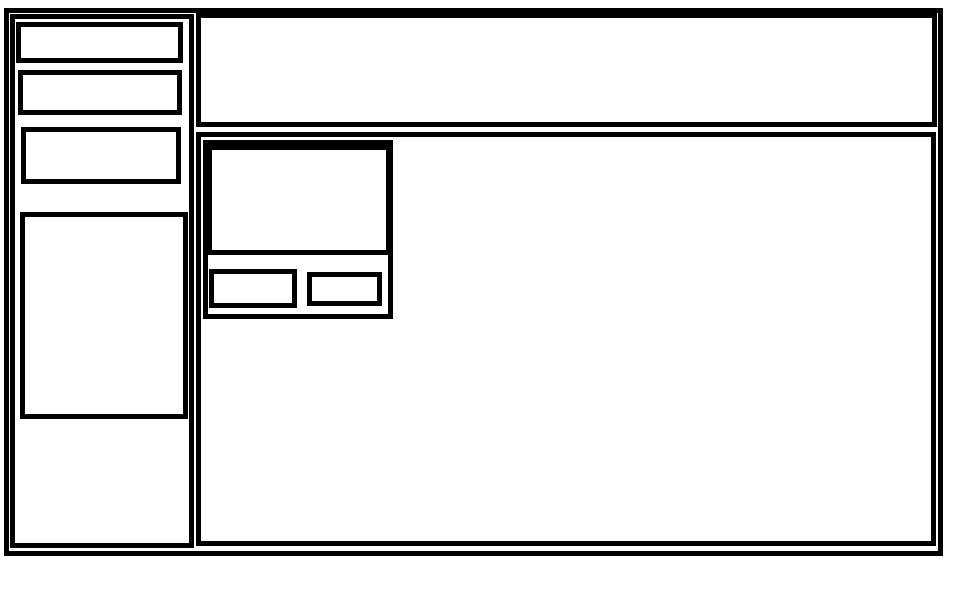
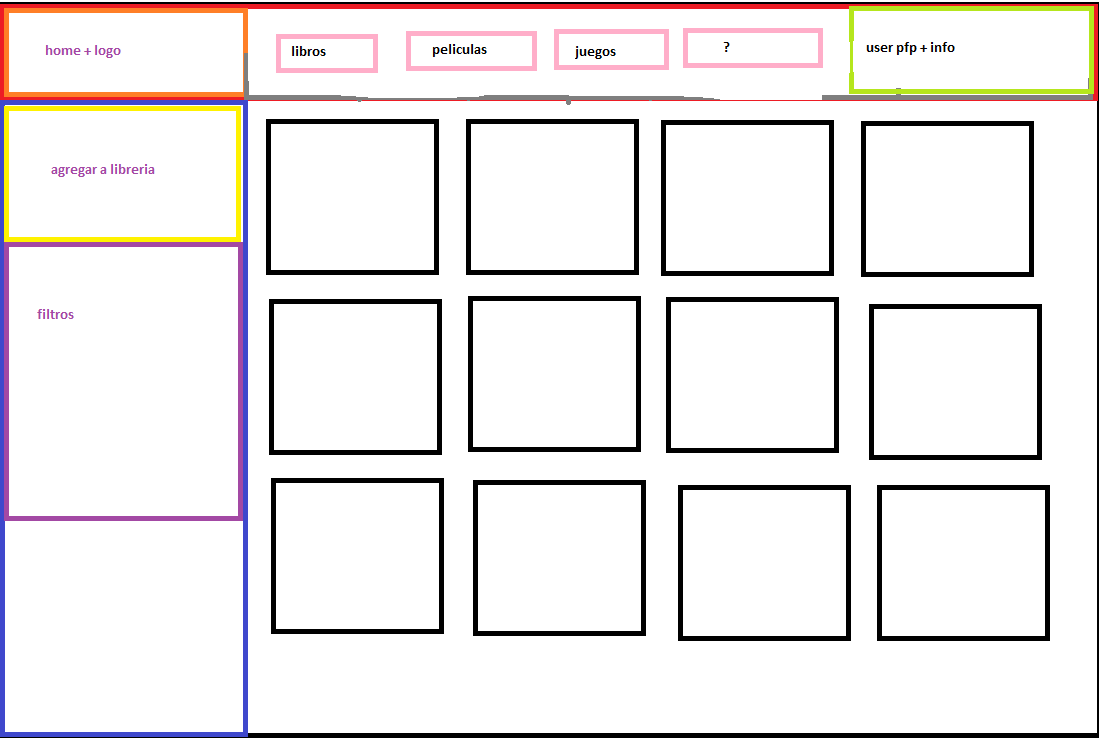
Add basic html and css selectors

Changed region(s): [[0.0, 0.0, 1.0, 1.0]]

diff --git a/index.html b/index.html
@@ -7,60 +7,74 @@
     <link rel="library.css" href="library.css">
 </head>
 <body>
-    <div class="header"></div>
-    <div class="sidebar"> 
-        <div class="navigation">
-            <button></button>
-            <button></button>
+  <div class="header">
+    <div class="homeLogo">
+      <img src="" alt="">
+    </div>
+    <div class="libNav">
+      <button class="books"></button>
+      <button class="movies"></button>
+      <button class="games"></button>
+    </div>
+    <div class="userSection">
+      <div></div>
+      <div></div>
+    </div>
+  </div>
+  <div class="sidebar">
+    <div class="homeIcon">
+      <img id="homeLogo" src="" alt="">
+    </div> 
+    <div class="form">
+      <form class="addBookForm">
+        <fieldset>
+              <legend>Add a book!</legend>
+              <p>
+                <input type="text" 
+                        name="title" 
+                        id="title" 
+                        value="The leyend of Robin Hood" 
+                        required />
+                <label for="title">Title*</label>
+              </p>
+              <p>
+                <input type="text" 
+                        name="author" 
+                        id="author" 
+                        value="Sir Walter Scott"
+                        required />
+                <label for="author">Author*</label>
+              </p>
+              <p>
+                <input type="numbwe" 
+                        name="pages" 
+                        id="pages" 
+                        value="186" 
+                        required />
+                <label for="pages">Number of pages*</label>
+              </p>
+              <p>
+                <input type="checkbox" 
+                        name="read" 
+                        id="read" />
+                <label for="read">Read</label>
+              </p>
+              <p>
+                  <input type="file" id="cover" name="cover">
+                  <label for="cover">Upload cover art:</label>
+              </p>
+            </fieldset>
+          </form>
         </div>
         <div class="filters">
-            <form class="filterBy"></form>
+            <form class="filterBy">
+      
+            </form>
         </div>
-        <div class="form">
-            <form class="addBookForm">
-                <fieldset>
-                  <legend>Add a book!</legend>
-                  <p>
-                    <input type="text" 
-                           name="title" 
-                           id="title" 
-                           value="The leyend of Robin Hood" 
-                           required />
-                    <label for="title">Title*</label>
-                  </p>
-                  <p>
-                    <input type="text" 
-                           name="author" 
-                           id="author" 
-                           value="Sir Walter Scott"
-                           required />
-                    <label for="author">Author*</label>
-                  </p>
-                  <p>
-                    <input type="numbwe" 
-                           name="pages" 
-                           id="pages" 
-                           value="186" 
-                           required />
-                    <label for="pages">Number of pages*</label>
-                  </p>
-                  <p>
-                    <input type="checkbox" 
-                           name="read" 
-                           id="read" />
-                    <label for="read">Read</label>
-                  </p>
-                  <p>
-                      <input type="file" id="cover" name="cover">
-                      <label for="cover">Upload cover art:</label>
-                  </p>
-                </fieldset>
-              </form>
-        </div>
-    </div>
-    <div class="library">
+  </div>
+  <div class="library">
 
-    </div>
-    <script src="library.js"></script>
+  </div>
+  <script src="library.js"></script>
 </body>
 </html>

diff --git a/library.css b/library.css
@@ -4,22 +4,40 @@ display: grid;
 grid-template-columns: 1fr 4fr;
 grid-template-rows: 1fr 4fr;
 }
-
+ /* HEADER */
 .header {
-    grid-row: 1 / 2;
-    grid-column: 2 / 3;
+}
+
+ .homeLogo {
+
+ }
+
+.libNav {
+
+}
+
+.libNav > button {
+
+}
+
+.userSection{
 
 }
 
 /* SIDEBAR SECTION */
 .sidebar {
-    grid-column: 1 / 2;
-    display: grid;
-    grid-template-rows: 1fr 1fr 2fr;
 }
 
-.navigation {
+.homeIcon {
     
+}
+
+.form {
+
+}
+
+.form > fieldset {
+
 }
 
 .filters {

diff --git a/library.js b/library.js
@@ -13,7 +13,7 @@ function addBookToLibrary(title, author, pages, read) {
   myLibrary.push(newBook)
 }
 
-addBookToLibrary("namw fo the wind", "pat ruff", "687", true);
+addBookToLibrary("name fo the wind", "pat ruff", "687", true);
 addBookToLibrary("doors of stone", "pat ruf", "1687", false)
 
 console.log(myLibrary[0].title)
